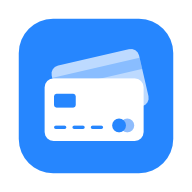
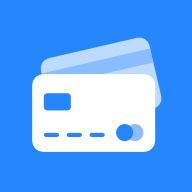
更新pwa配置

diff --git a/vite.config.ts b/vite.config.ts
@@ -9,7 +9,7 @@ export default defineConfig({
     tailwindcss(),
     VitePWA({
       registerType: 'autoUpdate',
-      includeAssets: ['icon.svg'],
+      includeAssets: ['icon_full.svg'],
       manifest: {
         name: "MultiCash",
         short_name: 'MultiCash',
@@ -26,7 +26,7 @@ export default defineConfig({
             type: 'image/png'
           },
           {
-            src: 'icon.svg',
+            src: 'icon_full.svg',
             sizes: 'any',
             type: 'image/svg+xml',
             purpose: 'any'
